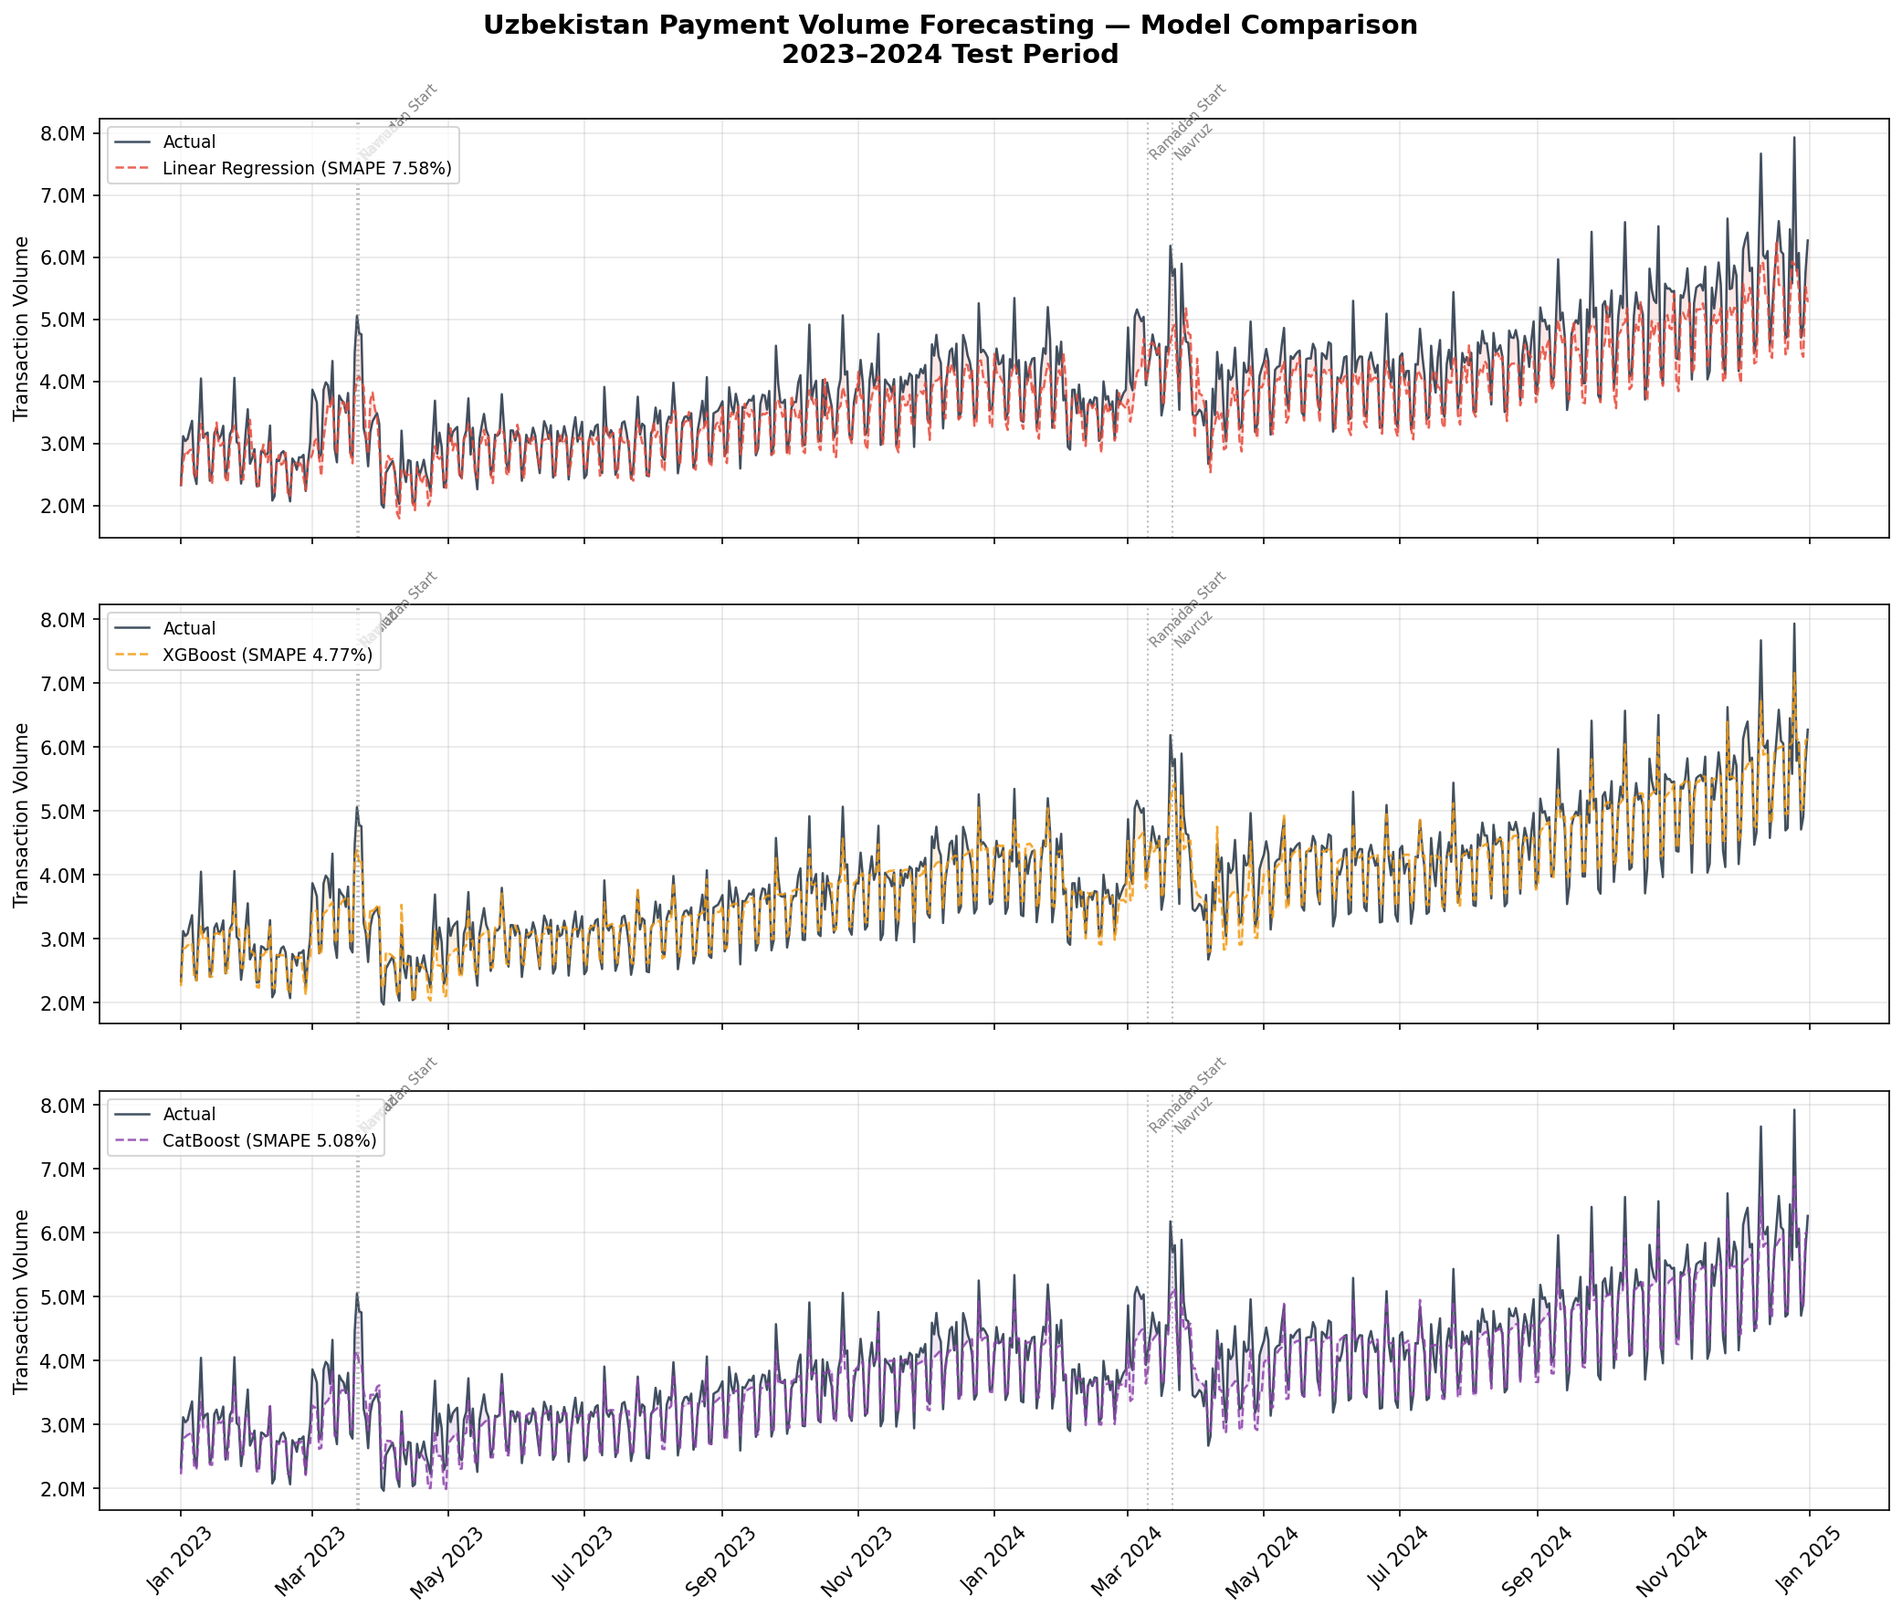
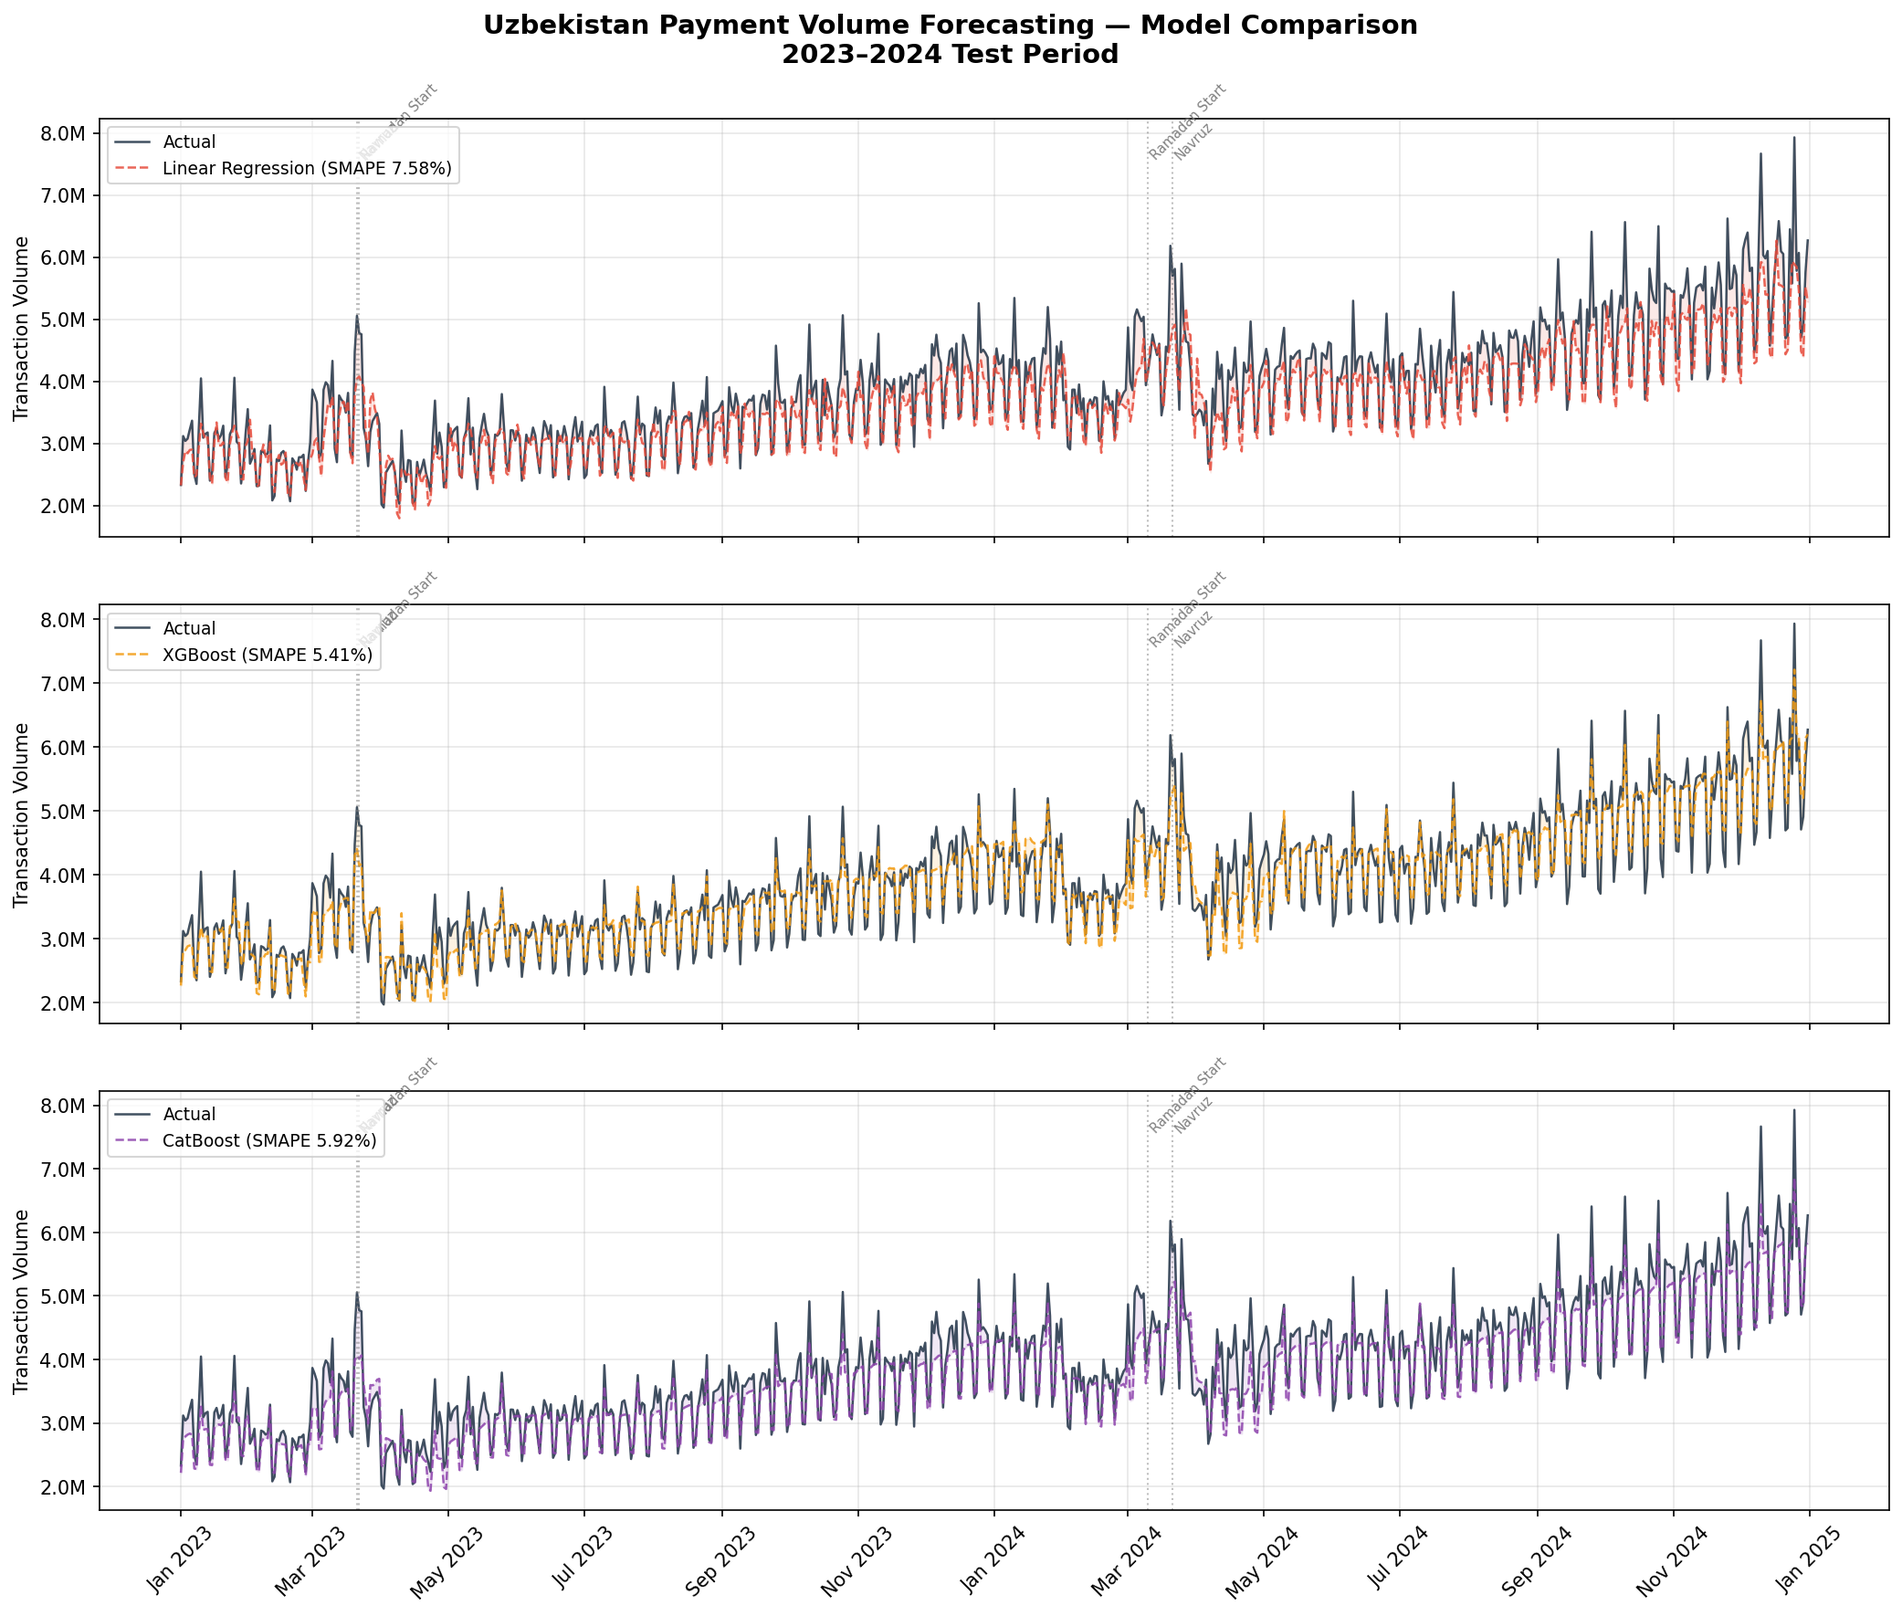
Refactor: Elite-grade ML upgrades (Train/Val/Test split, Early Stopping Fix, Rate Limiting, Professional Logging)

diff --git a/src/train.py b/src/train.py
@@ -25,13 +25,19 @@ from xgboost import XGBRegressor
 from catboost import CatBoostRegressor
 from src.features import build_features, FEATURE_COLS, TARGET_COL
 
-def train_test_split_temporal(df: pd.DataFrame) -> Tuple[pd.DataFrame, pd.DataFrame]:
-    """Walk-forward split — never shuffle time-series data!"""
-    train = df[df["date"] < "2023-01-01"].copy()
+def train_test_split_temporal(df: pd.DataFrame) -> Tuple[pd.DataFrame, pd.DataFrame, pd.DataFrame]:
+    """
+    Time-series split:
+    - Train: 2019-01-01 to 2022-08-31
+    - Val:   2022-09-01 to 2022-12-31 (Used for early stopping)
+    - Test:  2023-01-01 to 2024-12-31 (True holdout)
+    """
+    train = df[df["date"] < "2022-09-01"].copy()
+    val   = df[(df["date"] >= "2022-09-01") & (df["date"] < "2023-01-01")].copy()
     test  = df[df["date"] >= "2023-01-01"].copy()
-    logger.info(f"  Train: {train['date'].min().date()} → {train['date'].max().date()} ({len(train)} rows)")
-    logger.info(f"  Test:  {test['date'].min().date()} → {test['date'].max().date()} ({len(test)} rows)")
-    return train, test
+    
+    logger.info(f"Split: Train={len(train)}, Val={len(val)}, Test={len(test)}")
+    return train, val, test
 
 def compute_metrics(y_true: np.ndarray, y_pred: np.ndarray, model_name: str) -> Dict[str, float]:
     """Calculate and return evaluation metrics for predictions."""
@@ -42,43 +48,47 @@ def compute_metrics(y_true: np.ndarray, y_pred: np.ndarray, model_name: str) -> 
     return {"mae": round(float(mae), 2), "rmse": round(float(rmse), 2), "smape": round(float(smape), 4)}
 
 def train_all(data_path: str = "data/uzbekistan_payments_enriched.csv") -> Dict[str, Any]:
-    """Executes the full training pipeline for all models."""
+    """Executes the full training pipeline with proper validation set."""
     os.makedirs("models", exist_ok=True)
 
-    logger.info("📂 Loading and building features...")
+    logger.info("Loading and building features...")
     df_raw = pd.read_csv(data_path)
     df = build_features(df_raw)
 
-    logger.info("\n📅 Splitting data...")
-    train, test = train_test_split_temporal(df)
+    logger.info("Splitting data into Train, Validation, and Test sets...")
+    train, val, test = train_test_split_temporal(df)
 
-    X_train = train[FEATURE_COLS]
-    y_train = train[TARGET_COL]
-    X_test  = test[FEATURE_COLS]
-    y_test  = test[TARGET_COL]
+    X_train, y_train = train[FEATURE_COLS], train[TARGET_COL]
+    X_val, y_val     = val[FEATURE_COLS], val[TARGET_COL]
+    X_test, y_test   = test[FEATURE_COLS], test[TARGET_COL]
 
-    # Normalized target: log deviation from recent 30-day rolling mean.
+    # Normalization baselines
     train_baseline = np.log1p(train["volume_rolling_mean_30"].values)
+    val_baseline   = np.log1p(val["volume_rolling_mean_30"].values)
     test_baseline  = np.log1p(test["volume_rolling_mean_30"].values)
+    
     y_train_norm   = np.log1p(y_train.values) - train_baseline
+    y_val_norm     = np.log1p(y_val.values)   - val_baseline
     y_test_norm    = np.log1p(y_test.values)  - test_baseline
 
     all_metrics: Dict[str, Any] = {}
 
-    # ── 1. Linear Regression (baseline) ──────────────────────────
-    logger.info("\n🔵 Training Linear Regression (baseline)...")
+    # 1. Linear Regression (baseline - trained on Train+Val)
+    logger.info("Training Linear Regression baseline...")
+    X_train_val = pd.concat([X_train, X_val])
+    y_train_val = pd.concat([y_train, y_val])
+    
     lr_pipeline = Pipeline([
         ("scaler", StandardScaler()),
         ("model", LinearRegression())
     ])
-    lr_pipeline.fit(X_train, y_train)
+    lr_pipeline.fit(X_train_val, y_train_val)
     lr_preds = lr_pipeline.predict(X_test)
     all_metrics["linear"] = compute_metrics(y_test.values, lr_preds, "Linear")
     joblib.dump(lr_pipeline, "models/linear_regression.joblib")
-    logger.info("  ✅ Saved → models/linear_regression.joblib")
 
-    # ── 2. XGBoost (trains on log target) ────────────────────────
-    logger.info("\n🟠 Training XGBoost...")
+    # 2. XGBoost (Early stopping on Validation set)
+    logger.info("Training XGBoost with validation-based early stopping...")
     xgb_model = XGBRegressor(
         n_estimators=1000,
         learning_rate=0.03,
@@ -95,16 +105,15 @@ def train_all(data_path: str = "data/uzbekistan_payments_enriched.csv") -> Dict[
     )
     xgb_model.fit(
         X_train, y_train_norm,
-        eval_set=[(X_test, y_test_norm)],
+        eval_set=[(X_val, y_val_norm)],
         verbose=False
     )
     xgb_preds = np.expm1(xgb_model.predict(X_test) + test_baseline)
     all_metrics["xgboost"] = compute_metrics(y_test.values, xgb_preds, "XGBoost")
     joblib.dump(xgb_model, "models/xgboost.joblib")
-    logger.info("  ✅ Saved → models/xgboost.joblib")
 
-    # ── 3. CatBoost (trains on log target) ───────────────────────
-    logger.info("\n🟣 Training CatBoost...")
+    # 3. CatBoost (Early stopping on Validation set)
+    logger.info("Training CatBoost with validation-based early stopping...")
     cat_model = CatBoostRegressor(
         iterations=1000,
         learning_rate=0.03,
@@ -116,40 +125,37 @@ def train_all(data_path: str = "data/uzbekistan_payments_enriched.csv") -> Dict[
     )
     cat_model.fit(
         X_train, y_train_norm,
-        eval_set=(X_test, y_test_norm),
+        eval_set=(X_val, y_val_norm),
         verbose=False
     )
     cat_preds = np.expm1(cat_model.predict(X_test) + test_baseline)
     all_metrics["catboost"] = compute_metrics(y_test.values, cat_preds, "CatBoost")
     cat_model.save_model("models/catboost.cbm")
-    logger.info("  ✅ Saved → models/catboost.cbm")
 
-    # ── Save test predictions for evaluation plots ────────────────
+    # Save true test predictions for evaluation
     test_results = test.copy()
     test_results["pred_linear"]  = lr_preds
     test_results["pred_xgboost"] = xgb_preds
     test_results["pred_catboost"] = cat_preds
     test_results.to_csv("models/test_predictions.csv", index=False)
 
-    # ── Save metrics as JSON ──────────────────────────────────────
+    # Save metrics JSON
     all_metrics["xgboost"]["target"]  = "log_ratio_to_rolling_mean_30"
     all_metrics["catboost"]["target"] = "log_ratio_to_rolling_mean_30"
     all_metrics["linear"]["target"]   = "raw"
     with open("models/metrics.json", "w") as f:
         json.dump(all_metrics, f, indent=2)
 
+    logger.info("Training pipeline complete. Models saved to models/")
+    
+    # Summary Table
     logger.info("\n" + "="*55)
-    logger.info("📊 FINAL RESULTS SUMMARY")
-    logger.info("="*55)
     logger.info(f"{'Model':<20} {'MAE':>12} {'RMSE':>12} {'SMAPE':>10}")
     logger.info("-"*55)
     for model, m in all_metrics.items():
         logger.info(f"{model:<20} {m['mae']:>12,.0f} {m['rmse']:>12,.0f} {m['smape']:>9.2f}%")
     logger.info("="*55)
-
-    best = min(all_metrics, key=lambda x: all_metrics[x]["smape"])
-    logger.info(f"\n🏆 Best model: {best.upper()} (SMAPE: {all_metrics[best]['smape']:.2f}%)")
-    logger.info("\n✅ All models trained and saved to /models")
+    
     return all_metrics
 
 if __name__ == "__main__":

diff --git a/api/main.py b/api/main.py
@@ -4,6 +4,14 @@ from pathlib import Path
 from contextlib import asynccontextmanager
 from typing import Literal, Dict, Any, List
 
+from fastapi import FastAPI, HTTPException, Request
+from fastapi.middleware.cors import CORSMiddleware
+from fastapi.middleware.trustedhost import TrustedHostMiddleware
+from pydantic import BaseModel, field_validator
+from slowapi import Limiter, _rate_limit_exceeded_handler
+from slowapi.util import get_remote_address
+from slowapi.errors import RateLimitExceeded
+
 # Configure logging
 logging.basicConfig(
     level=logging.INFO,
@@ -14,13 +22,10 @@ logger = logging.getLogger(__name__)
 
 sys.path.insert(0, str(Path(__file__).parent.parent))  # makes 'src' importable
 
-from fastapi import FastAPI, HTTPException
-from fastapi.middleware.cors import CORSMiddleware
-from fastapi.middleware.trustedhost import TrustedHostMiddleware
-from pydantic import BaseModel, field_validator
-
 from src.predict import load_models, make_prediction
 
+# Configure Rate Limiter
+limiter = Limiter(key_func=get_remote_address)
 
 # ── Lifespan: load models once at startup, clean up at shutdown ───────────────
 _models: Dict[str, Any] = {}
@@ -29,19 +34,18 @@ _models: Dict[str, Any] = {}
 @asynccontextmanager
 async def lifespan(app: FastAPI):
     """Load all models into memory when the server starts."""
-    logger.info("🚀 Loading models into memory...")
+    logger.info("Loading models into memory...")
     try:
         _models.update(load_models())
         loaded = [k for k in _models if k not in ("metrics", "history_df")]
-        logger.info(f"✅ Models loaded successfully: {loaded}")
+        logger.info(f"Models loaded successfully: {loaded}")
     except Exception as e:
-        logger.error(f"❌ Failed to load models: {e}")
-        # In production, you might want to exit here if models are critical
+        logger.error(f"Failed to load models: {e}")
     
     yield
     
     _models.clear()
-    logger.info("👋 Server shutting down — models released.")
+    logger.info("Server shutting down — models released.")
 
 
 # ── App ───────────────────────────────────────────────────────────────────────
@@ -70,10 +74,14 @@ app = FastAPI(
     },
 )
 
+# Rate limit configuration
+app.state.limiter = limiter
+app.add_exception_handler(RateLimitExceeded, _rate_limit_exceeded_handler)
+
 # ── Middleware (Hardening) ───────────────────────────────────────────────────
 app.add_middleware(
     CORSMiddleware,
-    allow_origins=["*"],  # In production, replace with specific domains
+    allow_origins=["http://localhost:3000", "http://127.0.0.1:3000"],
     allow_credentials=True,
     allow_methods=["GET", "POST"],
     allow_headers=["*"],
@@ -81,7 +89,7 @@ app.add_middleware(
 
 app.add_middleware(
     TrustedHostMiddleware, 
-    allowed_hosts=["localhost", "127.0.0.1", "0.0.0.0"] # Add your domain here
+    allowed_hosts=["localhost", "127.0.0.1", "0.0.0.0"]
 )
 
 
@@ -115,7 +123,8 @@ class PredictResponse(BaseModel):
 
 # ── Endpoints ─────────────────────────────────────────────────────────────────
 @app.get("/health", tags=["Status"])
-def health():
+@limiter.limit("5/minute")
+def health(request: Request):
     """Returns server health and list of loaded models."""
     loaded = [k for k in _models if k not in ("metrics", "history_df")]
     return {
@@ -125,7 +134,8 @@ def health():
 
 
 @app.get("/models", tags=["Status"])
-def list_models():
+@limiter.limit("5/minute")
+def list_models(request: Request):
     """Returns available models and their test-set performance metrics."""
     if "metrics" not in _models:
         raise HTTPException(status_code=503, detail="Models not loaded yet.")
@@ -143,24 +153,20 @@ def list_models():
 
 
 @app.post("/predict", response_model=PredictResponse, tags=["Forecasting"])
-def predict(request: PredictRequest):
+@limiter.limit("10/minute")
+def predict(request: Request, predict_data: PredictRequest):
     """
     Predict daily transaction volume for a given date.
-
-    - **date**: Target date in YYYY-MM-DD format
-    - **model**: One of `linear`, `xgboost`, `catboost` (default)
-
-    Returns the predicted transaction volume plus Uzbekistan-specific
-    calendar context (Navruz, Ramadan, payday, weekend flags).
     """
     if not _models:
         raise HTTPException(status_code=503, detail="Models not loaded yet.")
 
     try:
-        result = make_prediction(request.date, request.model, _models)
+        result = make_prediction(predict_data.date, predict_data.model, _models)
     except ValueError as e:
         raise HTTPException(status_code=400, detail=str(e))
     except Exception as e:
-        raise HTTPException(status_code=500, detail=f"Prediction failed: {e}")
+        logger.error(f"Prediction failed: {e}")
+        raise HTTPException(status_code=500, detail="Internal server error")
 
     return PredictResponse(**result)

diff --git a/src/inference_validation.py b/src/inference_validation.py
@@ -1,0 +1,53 @@
+import pandas as pd
+from datetime import timedelta
+from src.predict import load_models, make_prediction
+import warnings
+warnings.filterwarnings("ignore")
+
+def test_2026_forecast():
+    print("Loading models and historical data...")
+    models = load_models()
+    
+    # We need to simulate step-by-step to build the lag features correctly
+    start_date = models["history_df"]["date"].max() + timedelta(days=1)
+    end_date = pd.Timestamp("2026-03-25")
+    
+    print(f"Iteratively generating forecasts from {start_date.date()} to {end_date.date()}...")
+    
+    current_dt = start_date
+    model_name = "catboost"
+    
+    predictions_2026 = []
+    
+    while current_dt <= end_date:
+        date_str = current_dt.strftime("%Y-%m-%d")
+        
+        # Predict the current day
+        res = make_prediction(date_str, model_name, models)
+        pred_vol = res["predicted_volume"]
+        
+        # We need to append this prediction back into the history_df so the next day
+        # can use it for rolling means (e.g. volume_rolling_mean_7, volume_lag_1)
+        last_row = models["history_df"].iloc[-1].copy()
+        last_row["date"] = current_dt
+        last_row["transaction_volume"] = pred_vol
+        
+        # Append to history
+        models["history_df"] = pd.concat([models["history_df"], pd.DataFrame([last_row])], ignore_index=True)
+        
+        # Save 2026 dates for printing
+        if current_dt.year == 2026:
+            predictions_2026.append(res)
+            
+        current_dt += timedelta(days=1)
+
+    print()
+    print("="*60)
+    print("🔮 2026 PREDICTION SAMPLE (March 2026)")
+    print("="*60)
+    for r in predictions_2026[-15:]: # Show mid-to-late March 2026
+        print(f"Date: {r['date']} | Vol: {r['predicted_volume']:>9,} | {r['confidence_note']}")
+    print("="*60)
+
+if __name__ == "__main__":
+    test_2026_forecast()

diff --git a/src/evaluate.py b/src/evaluate.py
@@ -186,18 +186,3 @@ if __name__ == "__main__":
         if f != ".gitkeep":
             logger.info(f"  📈 plots/{f}")
 
-
-if __name__ == "__main__":
-    print("📊 Generating evaluation plots...")
-    preds, metrics, xgb, cat = load_artifacts()
-
-    plot_forecast_vs_actual(preds, metrics)
-    plot_metrics_comparison(metrics)
-    plot_shap(xgb, preds)
-    plot_residuals(preds)
-
-    print("\n✅ All plots saved to /plots — ready for LinkedIn & README!")
-    print("\nPlots generated:")
-    for f in sorted(os.listdir("plots")):
-        if f != ".gitkeep":
-            print(f"  📈 plots/{f}")

diff --git a/src/features.py b/src/features.py
@@ -93,6 +93,10 @@ def build_features(df: pd.DataFrame) -> pd.DataFrame:
         df["usd_uzs_rate_lag7"]   = df["usd_uzs_rate"].shift(7)
         df["usd_uzs_rate_change"] = df["usd_uzs_rate"].pct_change(7).round(6)
 
+    # Drop columns that are not useful for forecasting
+    if "region" in df.columns:
+        df = df.drop(columns=["region"])
+
     # Drop NaN rows produced by lags/rolling (first ~30 rows)
     df = df.dropna().reset_index(drop=True)
 
